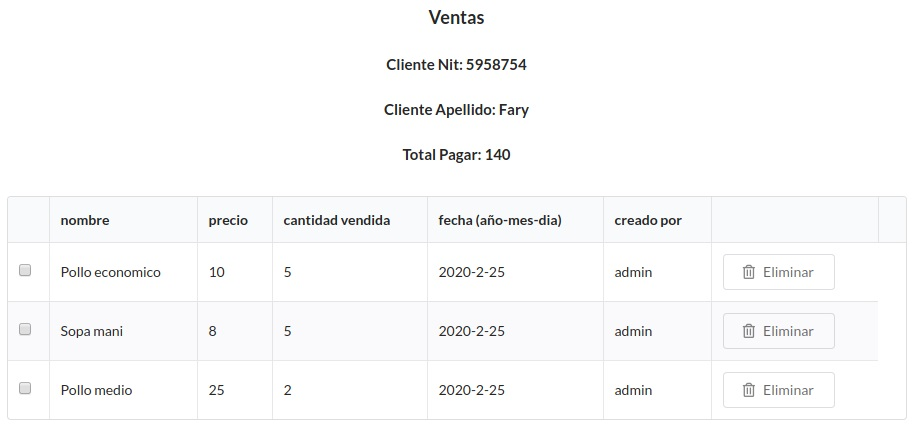
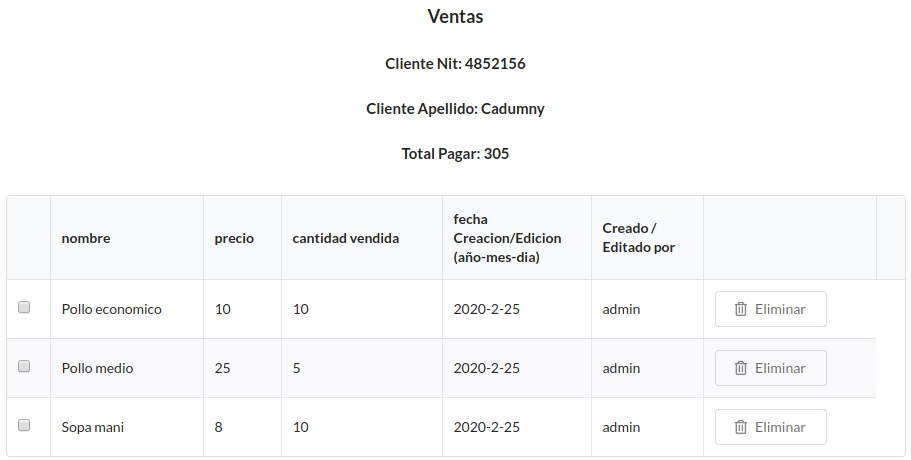
add table updates

diff --git a/imports/ui/components/sales/Table.js b/imports/ui/components/sales/Table.js
@@ -52,8 +52,12 @@ class Table extends Component {
                     <th scope="col"></th>
                     <th scope="col">ci o nit</th>
                     <th scope="col">apellido</th>
-                    <th scope="col">fecha (año-mes-dia)</th>
-                    <th scope="col">creado por</th>
+                    <th style={{ maxWidth: "120px" }} scope="col">
+                      fecha Creacion/Edicion (año-mes-dia)
+                    </th>
+                    <th style={{ maxWidth: "90px" }} scope="col">
+                      Creado / Editado por
+                    </th>
                     <th scope="col"></th>
                     <th scope="col"></th>
                     <th scope="col"></th>

diff --git a/imports/ui/components/sales-details/Table.js b/imports/ui/components/sales-details/Table.js
@@ -63,8 +63,12 @@ class Table extends Component {
                     <th scope="col">nombre</th>
                     <th scope="col">precio</th>
                     <th scope="col">cantidad vendida</th>
-                    <th scope="col">fecha (año-mes-dia)</th>
-                    <th scope="col">creado por</th>
+                    <th style={{ maxWidth: "120px" }} scope="col">
+                      fecha Creacion/Edicion (año-mes-dia)
+                    </th>
+                    <th style={{ maxWidth: "90px" }} scope="col">
+                      Creado / Editado por
+                    </th>
                     <th scope="col"></th>
                     <th scope="col"></th>
                   </tr>

diff --git a/imports/ui/components/products/Table.js b/imports/ui/components/products/Table.js
@@ -35,8 +35,12 @@ class Table extends Component {
                     <th scope="col">nombre</th>
                     <th scope="col">precio</th>
                     <th scope="col">stock</th>
-                    <th scope="col">fecha (año-mes-dia)</th>
-                    <th scope="col">creado por</th>
+                    <th style={{ maxWidth: "120px" }} scope="col">
+                      fecha Creacion/Edicion (año-mes-dia)
+                    </th>
+                    <th style={{ maxWidth: "90px" }} scope="col">
+                      Creado / Editado por
+                    </th>
                     <th scope="col"></th>
                     <th scope="col"></th>
                   </tr>

diff --git a/imports/ui/components/clients/Table.js b/imports/ui/components/clients/Table.js
@@ -33,8 +33,12 @@ class Table extends Component {
                     <th scope="col"></th>
                     <th scope="col">ci o nit</th>
                     <th scope="col">apellido</th>
-                    <th scope="col">fecha (año-mes-dia)</th>
-                    <th scope="col">creado por</th>
+                    <th style={{ maxWidth: "120px" }} scope="col">
+                      fecha Creacion/Edicion (año-mes-dia)
+                    </th>
+                    <th style={{ maxWidth: "90px" }} scope="col">
+                      Creado / Editado por
+                    </th>
                     <th scope="col"></th>
                     <th scope="col"></th>
                   </tr>
